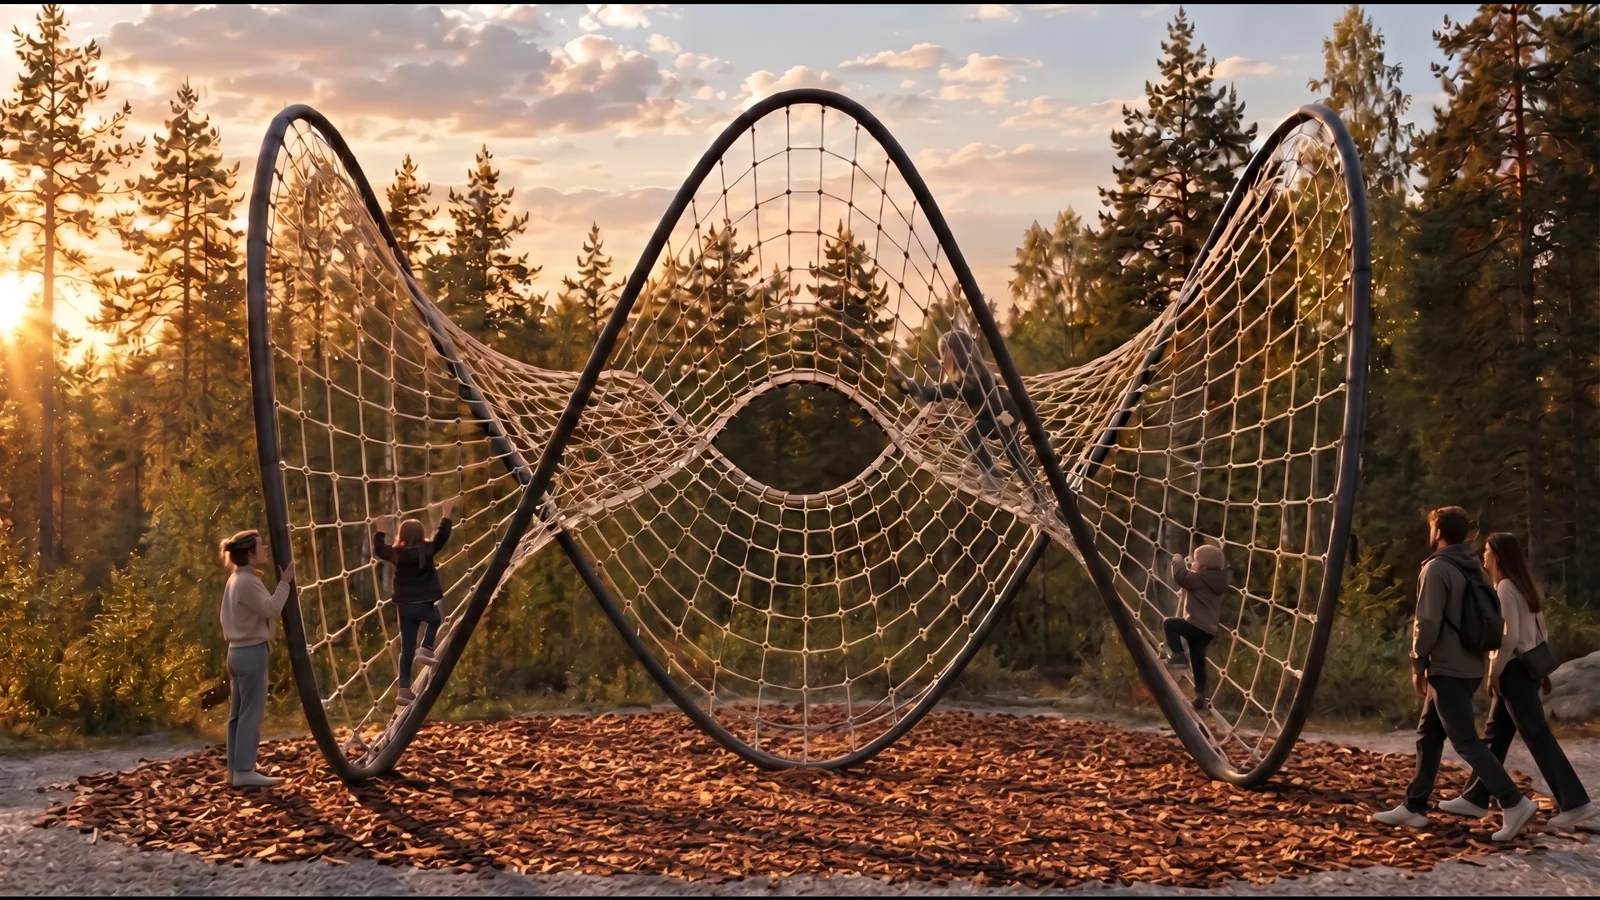
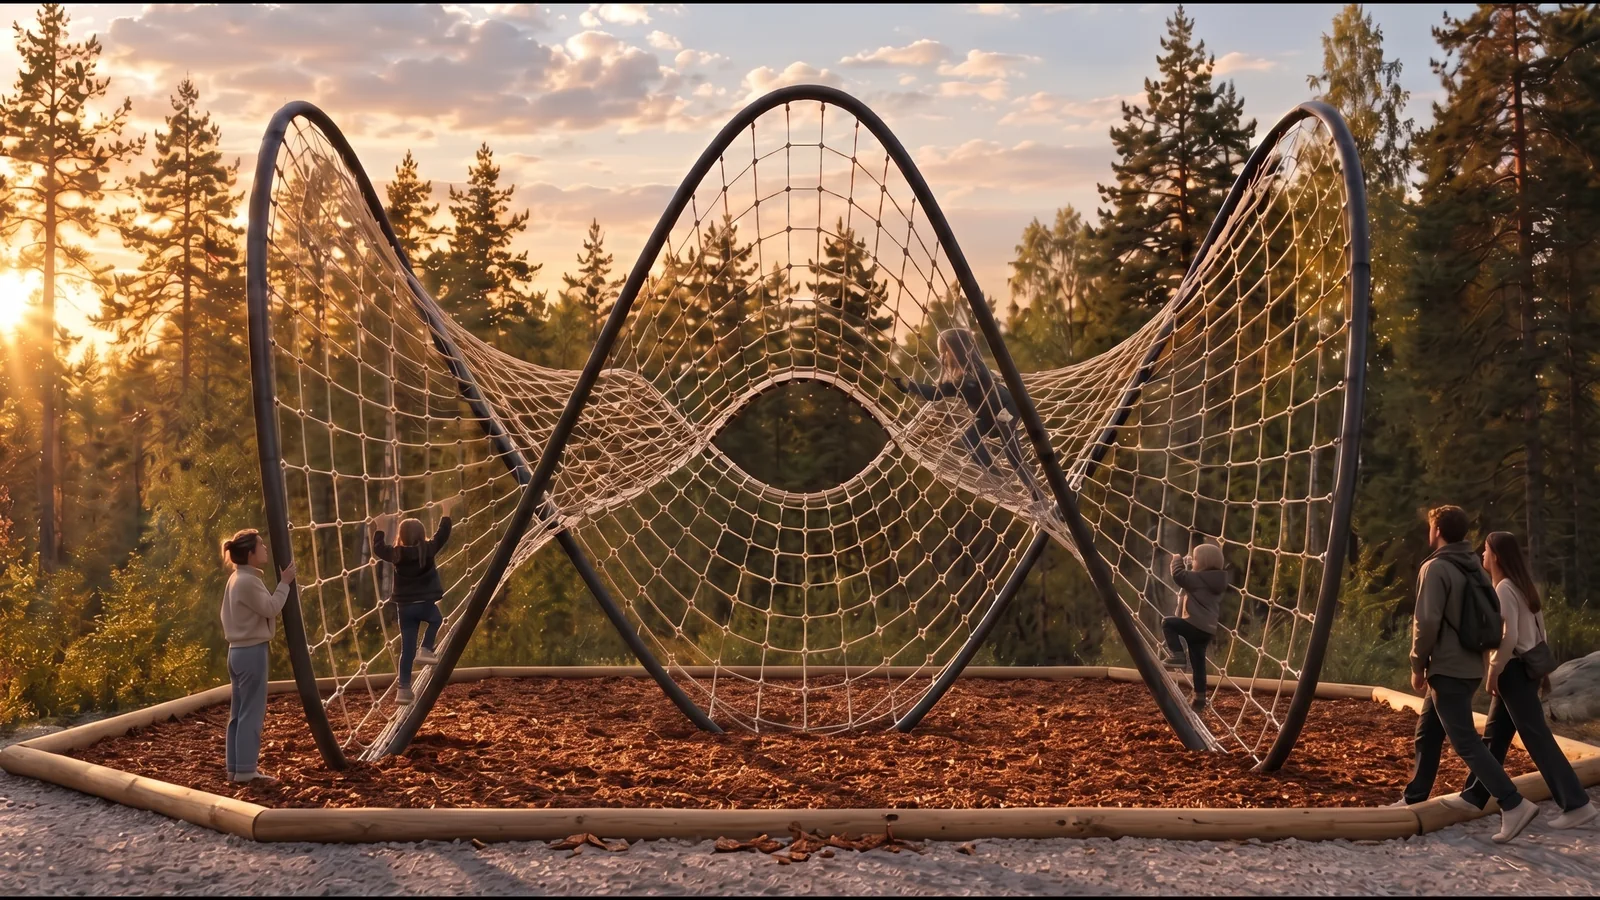
Update site 2026-10-16

diff --git a/index.html b/index.html
@@ -2,7 +2,7 @@
 <html lang="en">
 <head>
 <meta charset="utf-8">
-<meta http-equiv="Content-Security-Policy" content="default-src 'self'; script-src 'self' 'sha256-2aXUAyr4y5HwhHmZkiL9GxlWPjC31j/WITiZgkK8rwM=' 'sha256-Pou2OAmGK2C6S8TLm9mEenH+t3b9fo090o6+uJaSkNo=' 'sha256-GBSNzbRYvDDGp3pbfBfW1qwvGaLkI736pXIuO3c3vkY=' 'sha256-NHFBz1FDKkJsivdKBxmhXZMTxpMJ8C1BGT9igCwSCTg='; style-src 'self' 'unsafe-inline'; font-src 'self'; img-src 'self' data: blob:; media-src 'self' blob:; connect-src 'self'; worker-src 'self' blob:; object-src 'none'; base-uri 'self'; form-action 'none'">
+<meta http-equiv="Content-Security-Policy" content="default-src 'self'; script-src 'self' 'sha256-2aXUAyr4y5HwhHmZkiL9GxlWPjC31j/WITiZgkK8rwM=' 'sha256-Pou2OAmGK2C6S8TLm9mEenH+t3b9fo090o6+uJaSkNo=' 'sha256-GBSNzbRYvDDGp3pbfBfW1qwvGaLkI736pXIuO3c3vkY=' 'sha256-jcmzHaataLyFeebbRUHA2Rgo6QJEKoqSlytBOTimqiI='; style-src 'self' 'unsafe-inline'; font-src 'self'; img-src 'self' data: blob:; media-src 'self' blob:; connect-src 'self'; worker-src 'self' blob:; object-src 'none'; base-uri 'self'; form-action 'none'">
 <meta name="referrer" content="strict-origin-when-cross-origin">
 <meta name="viewport" content="width=device-width, initial-scale=1, viewport-fit=cover">
 <title>Raffaele Errichiello</title>
@@ -1737,7 +1737,7 @@ html:not(.ed-on) [data-ed-off]{display:none!important}
 
       <p class="meta">The third version of the thesis shell, in steel and rope, in the workshop of Umeå School of Architecture, June to September 2022.</p>
       <div class="split rev" style="margin-top:clamp(24px,3vw,40px)">
-        <figure class="cycle" data-cycle data-every="3600" aria-label="MK3 at full scale, a rendering made with ChatGPT and Gemini, and the whiteboard of its parts and joints, changing every few seconds"><div class="tile r169"><img src="assets/img/x/mk-render.webp" alt="Rendering made with ChatGPT and Gemini: MK3 at full scale in a forest clearing at sunset, one closed wavy loop of black steel tube with a knotted rope net stretched inside it as a saddle, two children climbing the net low on either side, a girl going over the ridge of net beside the central opening, a parent holding the tube and a couple walking past, a soft mat of bark chips on the ground under and around it" loading="lazy" decoding="async" width="1600" height="900"><img src="assets/img/x/mk-board-photo.webp" alt="The workshop whiteboard seen square-on: the two pipe types, the joints, the lengths of rope and the shell sketched with people for scale, in black, red and green marker" loading="lazy" decoding="async" width="1600" height="900"></div><figcaption class="cap">MK3 at full scale, a rendering made with AI (ChatGPT and Gemini), and the whiteboard of its parts.</figcaption></figure>
+        <figure class="cycle" data-cycle data-every="3600" aria-label="MK3 at full scale, a rendering made with ChatGPT and Gemini, and the whiteboard of its parts and joints, changing every few seconds"><div class="tile r169"><img src="assets/img/x/mk-render.webp" alt="Rendering made with ChatGPT and Gemini: MK3 at full scale in a forest clearing at sunset, one closed wavy loop of black steel tube with a knotted rope net stretched inside it as a saddle, two children climbing the net low on either side, a girl going over the ridge of net beside the central opening, a parent holding the tube and a couple walking past, a deep bed of bark chips under and around it, held by a low log edge" loading="lazy" decoding="async" width="1600" height="900"><img src="assets/img/x/mk-board-photo.webp" alt="The workshop whiteboard seen square-on: the two pipe types, the joints, the lengths of rope and the shell sketched with people for scale, in black, red and green marker" loading="lazy" decoding="async" width="1600" height="900"></div><figcaption class="cap">MK3 at full scale, a rendering made with AI (ChatGPT and Gemini), and the whiteboard of its parts.</figcaption></figure>
         <div class="side">
           <div class="body">
             <p>The thesis shell, rebuilt in steel and rope. Steel tubes were bent on a plywood jig and joined with clamps, and nets of rope were stretched between them. I set out the saddle surfaces in Kangaroo, a physics solver for Grasshopper, and bent the tubes to match the simulation.</p>
@@ -4819,7 +4819,7 @@ function t(t,e,i){return Math.max(t,Math.min(e,i))}var e=class{isRunning=!1;valu
   initPosters(); initVideos(); initScrub(); initLightbox(); initCopy(); initPeek(); initShelf();
 })();
 
-(function(){var B='84db63cb8448';function check(){try{fetch('version.txt?t='+Date.now(),{cache:'no-store'}).then(function(r){return r.ok?r.text():null}).then(function(v){v=v&&v.trim();if(!v||v===B)return;var k='reloaded-for';try{if(sessionStorage.getItem(k)===v)return;sessionStorage.setItem(k,v)}catch(e){}location.reload()}).catch(function(){})}catch(e){}}check();addEventListener('pageshow',function(e){if(e.persisted)check()});document.addEventListener('visibilitychange',function(){if(!document.hidden)check()})})();
+(function(){var B='c00c442828d8';function check(){try{fetch('version.txt?t='+Date.now(),{cache:'no-store'}).then(function(r){return r.ok?r.text():null}).then(function(v){v=v&&v.trim();if(!v||v===B)return;var k='reloaded-for';try{if(sessionStorage.getItem(k)===v)return;sessionStorage.setItem(k,v)}catch(e){}location.reload()}).catch(function(){})}catch(e){}}check();addEventListener('pageshow',function(e){if(e.persisted)check()});document.addEventListener('visibilitychange',function(){if(!document.hidden)check()})})();
 </script>
 </body>
 </html>
